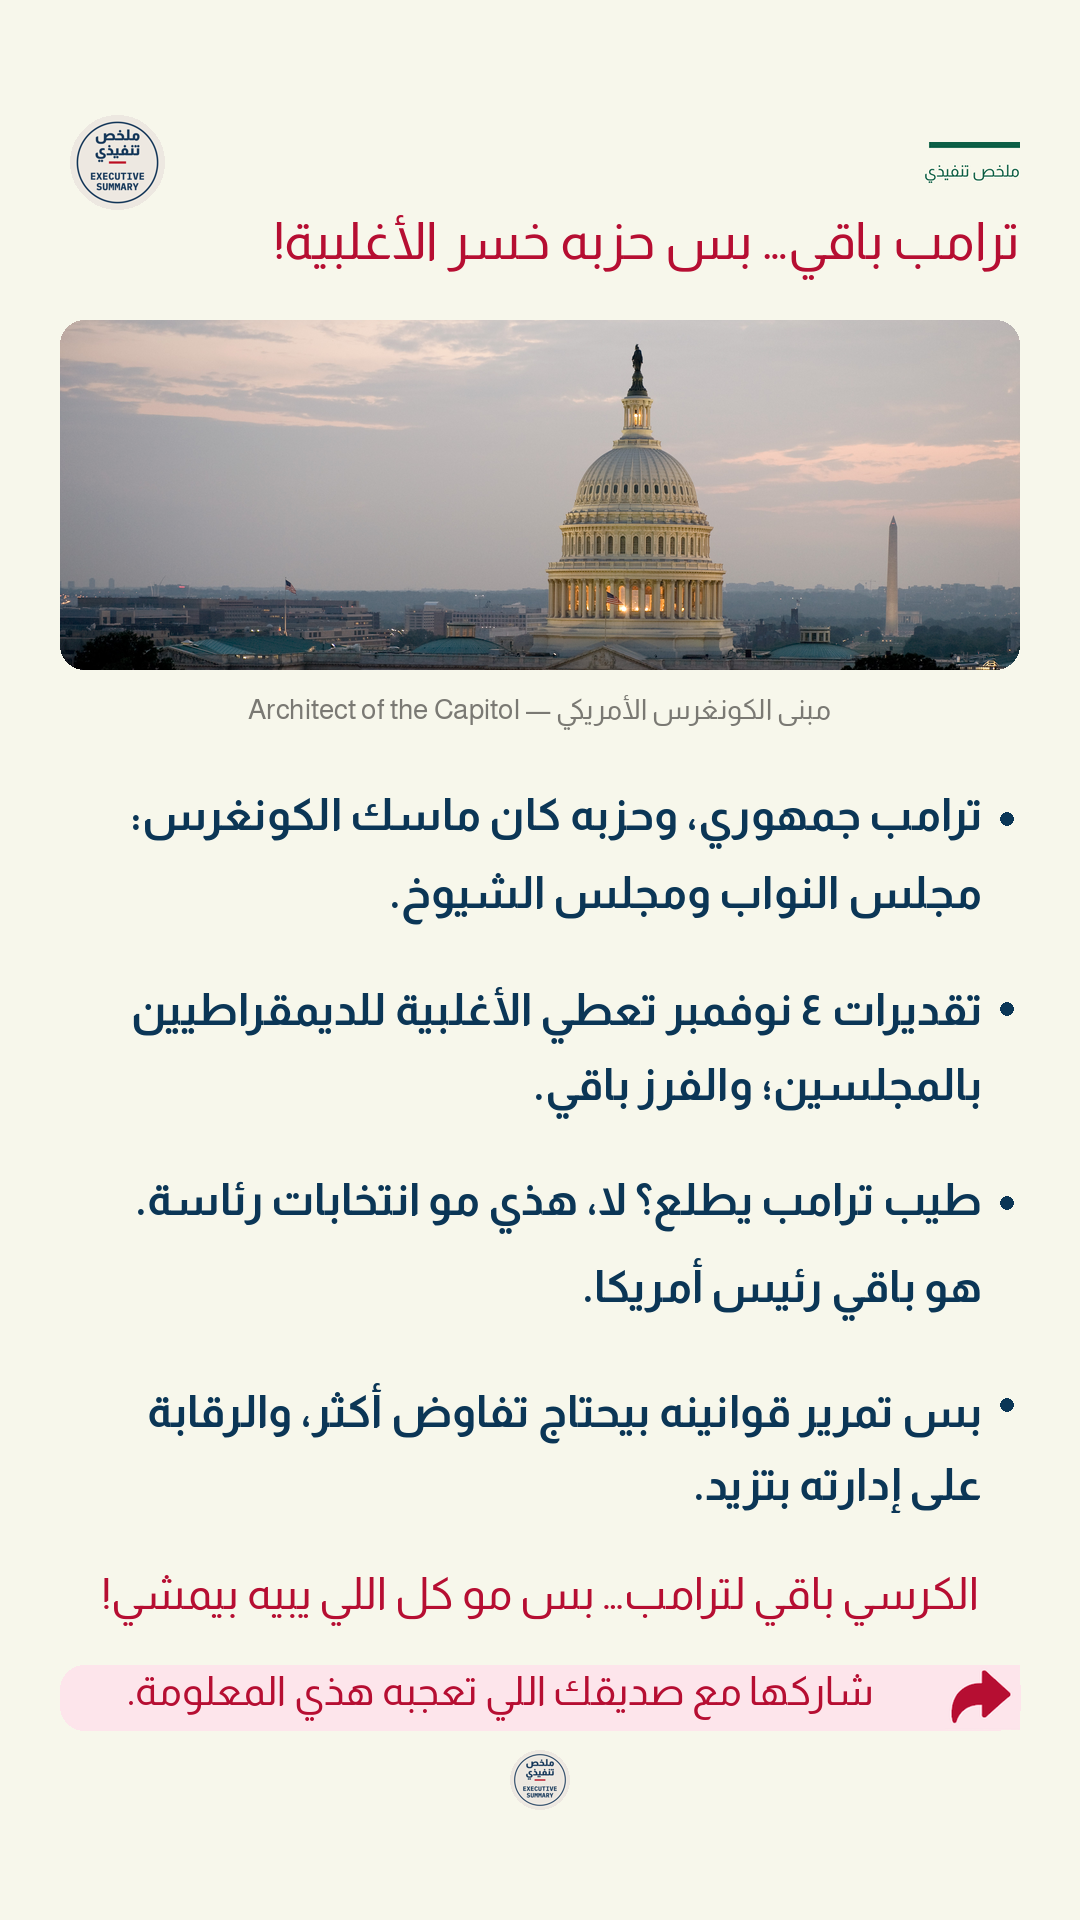
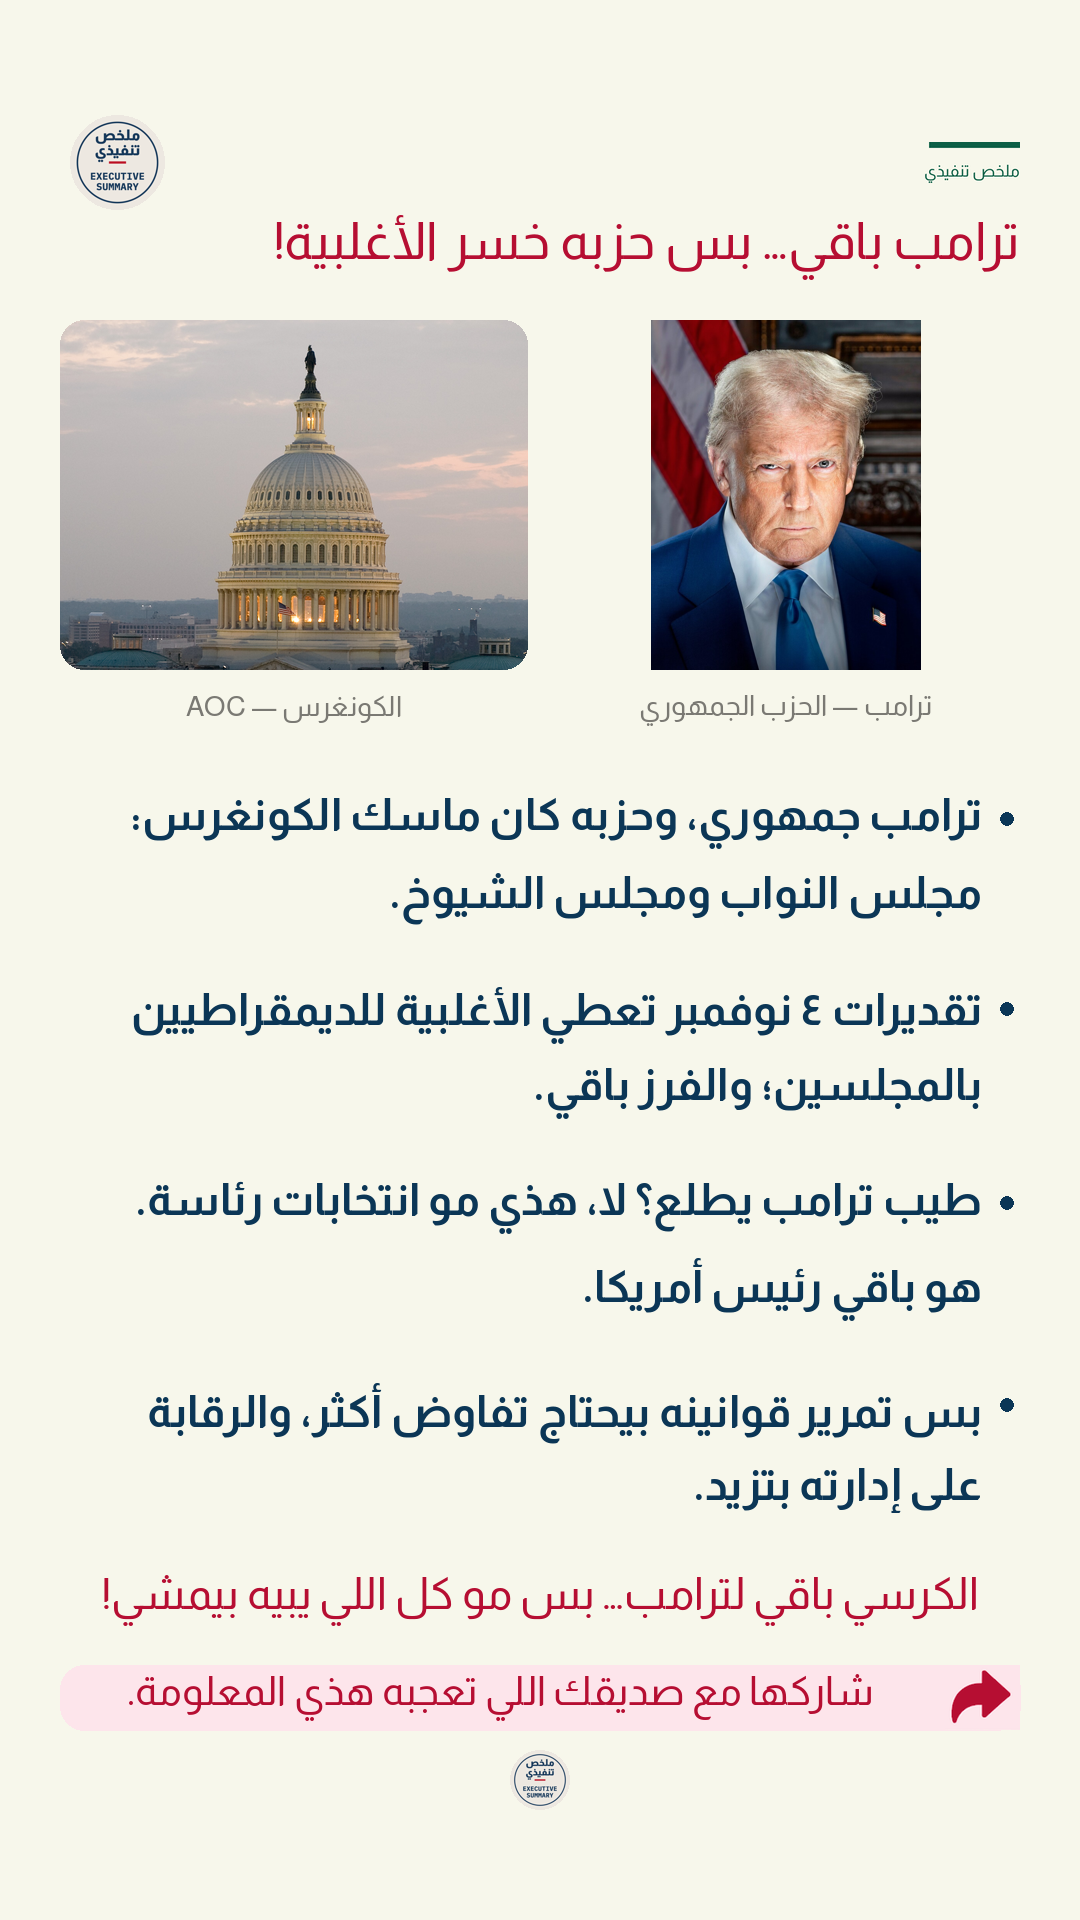
content: add requested Trump portrait to election results draft

Changed region(s): [[0.0306, 0.1562, 0.9472, 0.375]]

diff --git a/approved/us-results-20261104/prepare.py b/approved/us-results-20261104/prepare.py
@@ -10,15 +10,17 @@ m=read(old/'manifest.json')
 m.update(approved=False,title=copy['headline'],not_before='2026-11-04T00:00:00+00:00',expires_at='2026-11-05T20:59:59+00:00')
 m['media'][0].update(path=str(p/'card.png'),sha256=sha(p/'card.png'))
 asset=read(old/'sources.json')['image_assets'][0]
-m['media'][0]['source_assets']=[asset]
-m['owner_review']={'reference':'Design requested after measured shortened draft. Final export not yet approved for publication.','approved_media_sha256':[sha(p/'card.png')],'approved_source_sha256':[asset['sha256']]}
+trump={'path':str(p/'trump.jpg'),'sha256':sha(p/'trump.jpg'),'source_url':'https://commons.wikimedia.org/wiki/File:January_2025_Official_Presidential_Portrait_of_Donald_J._Trump.jpg','description':'January 2025 inaugural portrait by Daniel Torok; resized to 700px width.','rights_status':'public_domain','credit':'Daniel Torok','rights_basis':'Author public domain dedication, documented on Commons.','original_sha256':sha(Path('/workspace/scratch/6eccb5ef02c0/trump-original.jpg'))}
+m['media'][0]['source_assets']=[asset,trump]
+m['owner_review']={'reference':'Khalid requested adding Trump beside Capitol and publishing. Revised export undergoing preparation.','approved_media_sha256':[sha(p/'card.png')],'approved_source_sha256':[asset['sha256'],trump['sha256']]}
 save('manifest.json',m)
 a=read(old/'archive-approval.json')
-a.update(approved=False,manifest=str(p/'manifest.json'),manifest_sha256=sha(p/'manifest.json'),identity=sha(p/'card.png'),title=copy['headline'],expires_at=m['expires_at'],owner_authorization='Not authorized; design preview only.')
+from publishing_v2.information_request import identity
+a.update(approved=False,manifest=str(p/'manifest.json'),manifest_sha256=sha(p/'manifest.json'),identity=identity(m),title=copy['headline'],expires_at=m['expires_at'],owner_authorization='Awaiting hash-bound authorization staging for requested revision.')
 save('archive-approval.json',a)
-save('sources.json',{'facts':['https://www.axios.com/2026/11/03/election-day-midterm-trump-democrats-republicans','https://www.abc.net.au/news/2026-11-04/democrats-claim-victory-over-republicans-2026-midterm-elections/107338138'],'as_of_riyadh':'2026-11-04T09:35:39+03:00','image_assets':[asset],'image_treatment':'Upper panorama crop retaining full Capitol dome; archival 2011 photo, not election-day photo.','status':'Draft; no publication authorization'})
+save('sources.json',{'facts':['https://www.axios.com/2026/11/03/election-day-midterm-trump-democrats-republicans','https://www.abc.net.au/news/2026-11-04/democrats-claim-victory-over-republicans-2026-midterm-elections/107338138'],'as_of_riyadh':'2026-11-04T09:35:39+03:00','image_assets':[asset,trump],'image_treatment':'Capitol dome detail left; full Trump portrait contained without distortion right. Archival photographs, not election-day photos.','status':'Revised draft pending hash-bound authorization'})
 r=read(old/'design-review.json')
 r['settings_sha256']=sha(Path('publishing_v2/design-settings.json'))
 r['cards'][0].update(sha256=sha(p/'card.png'),blocks=read(p/'blocks.json'))
-r['review']['reference']='Inspected both final 390x693 Story and Saved Story simulations after upper crop correction. Full dome visible. Four two-line bullets, title/closing one line, CTA visible above lower simulated overlay. Actual device appearance not claimed. Exact measured shortened text retained.'
+r['review']['reference']='Inspected both final 390x693 Story and Saved Story simulations: Capitol dome left, Trump right with respective captions. Four two-line bullets; title and closing one line; CTA visible. Exact approved copy preserved. Overlay simulation, not live device measurement.'
 save('design-review.json',r)

diff --git a/approved/us-results-20261104/render.py b/approved/us-results-20261104/render.py
@@ -1,6 +1,6 @@
 import json
 from pathlib import Path
-from PIL import Image, ImageDraw
+from PIL import Image, ImageDraw, ImageOps
 from publishing_v2.fixed_information_template import render
 from publishing_v2.information_text_fit import prepare_text
 
@@ -20,9 +20,10 @@ assert fit['fit'], fit
 for name, data in [('copy.json', copy), ('text-fit.json', fit)]:
     (p/name).write_text(json.dumps(data, ensure_ascii=False, indent=2)+'\n')
 photo = Image.open('approved/us-midterms-20261101/capitol.jpg')
-photo = photo.crop((0, 0, photo.width, round(photo.width*350/960)))
-im, blocks = render(copy['headline'], copy['bullets'], copy['closing'], [photo],
-                    ['مبنى الكونغرس الأمريكي — Architect of the Capitol'])
+photo = photo.crop((round(photo.width*.35), 0, round(photo.width*.82), round(photo.width*.47*350/468)))
+trump = ImageOps.pad(Image.open(p/'trump.jpg'), (468,350), color='#F7F7EB')
+im, blocks = render(copy['headline'], copy['bullets'], copy['closing'], [photo, trump],
+                    ['الكونغرس — AOC', 'ترامب — الحزب الجمهوري'])
 im.save(p/'card.png')
 (p/'blocks.json').write_text(json.dumps(blocks, ensure_ascii=False, indent=2)+'\n')
 for dest in ['story','saved-story']:
